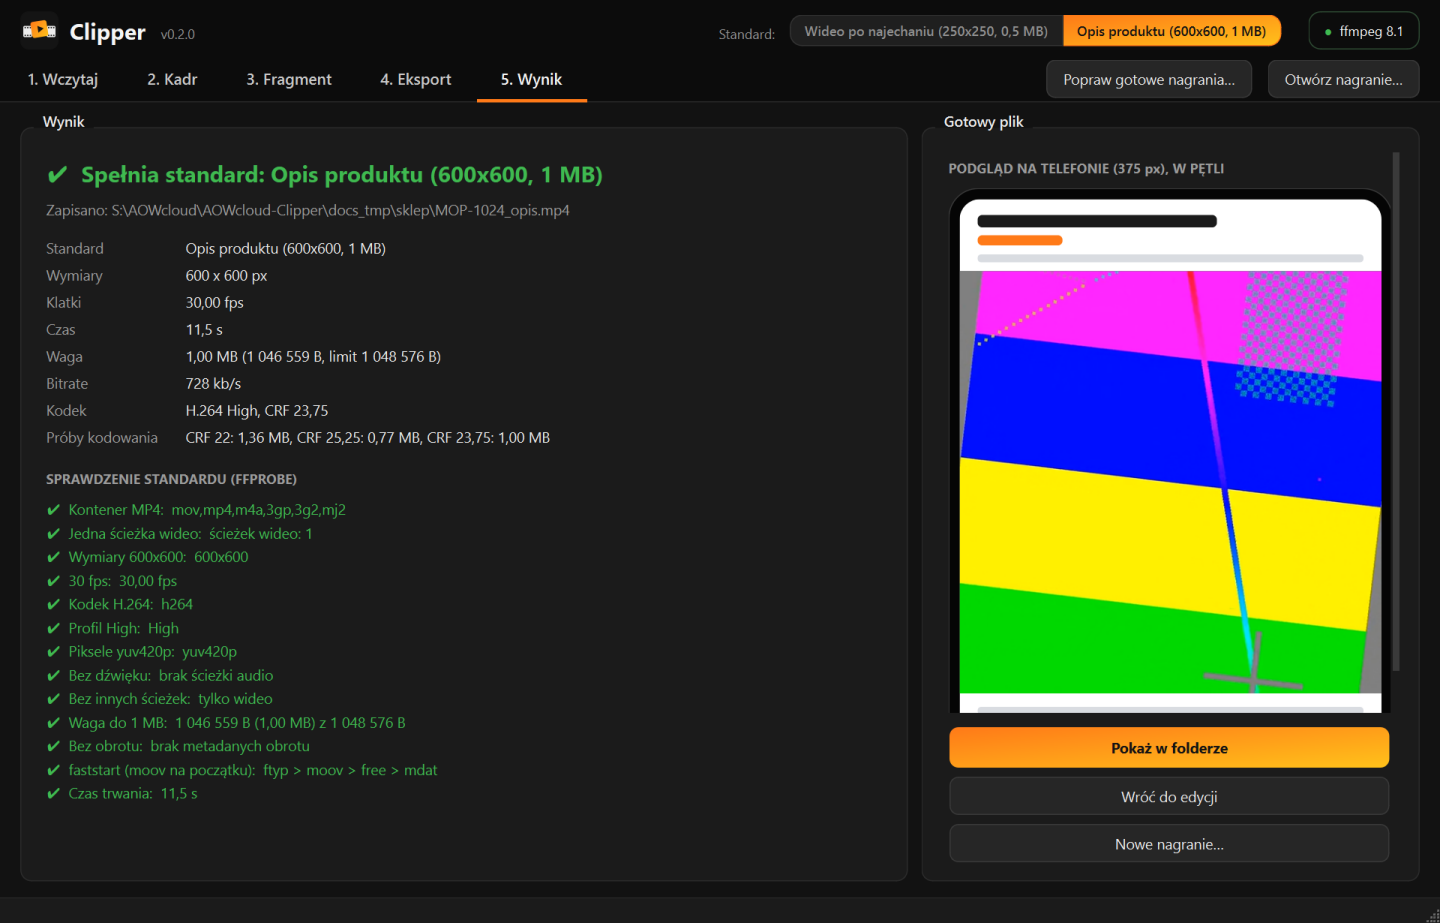
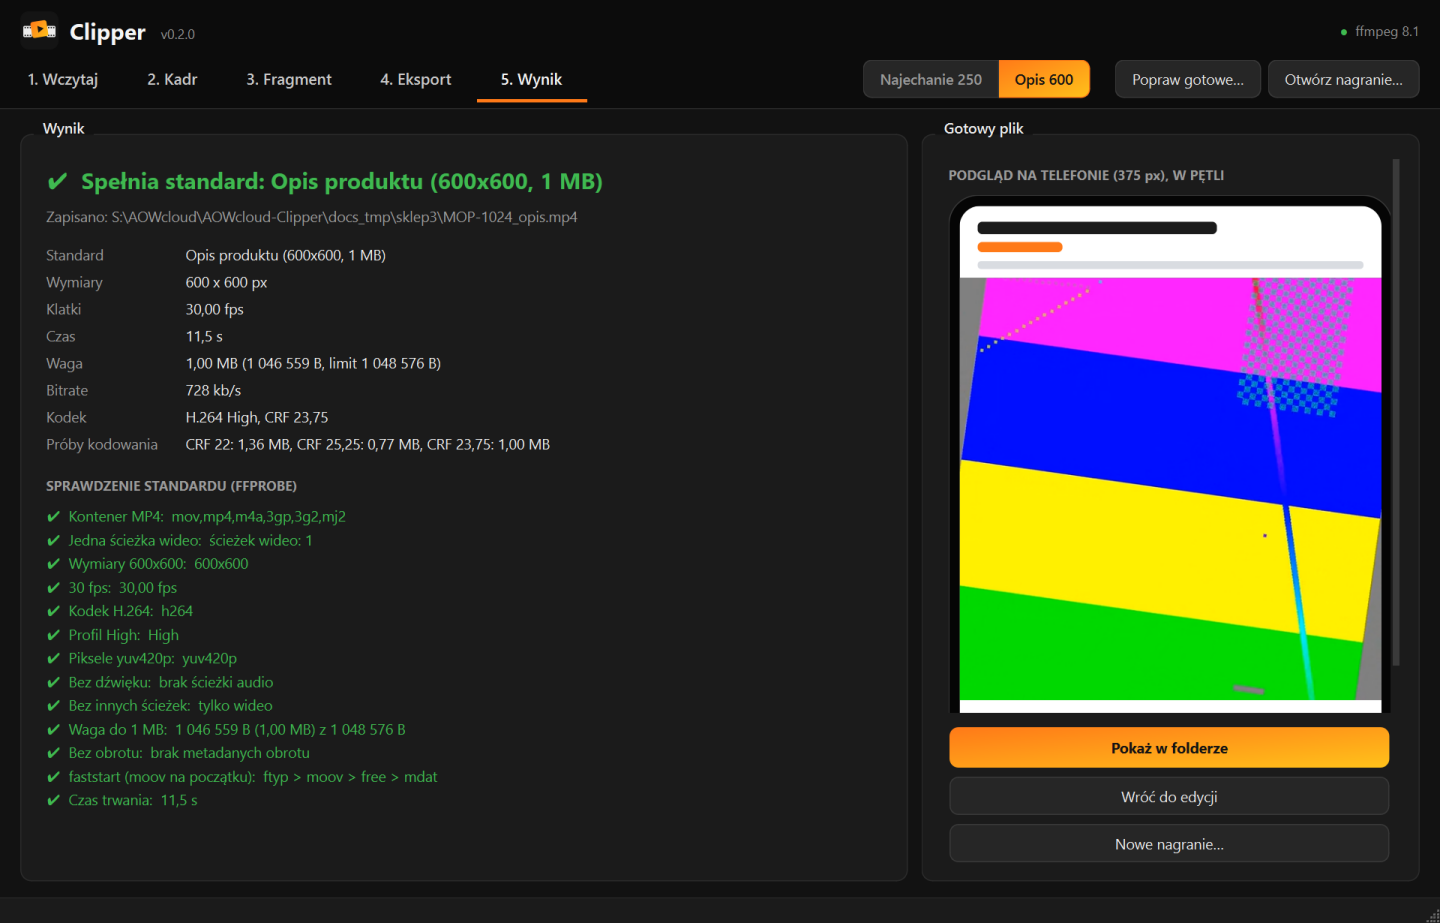
Tidy the top area: standard switch in the steps bar
The standard switch moves from the header to the steps bar, next to the
action buttons, with short labels ("Najechanie 250", "Opis 600") and the
same shape and height as the buttons; full parameters stay in the tooltip.
The header keeps only the logo, version and a quiet ffmpeg status dot.
README text and screenshots updated.

Changed region(s): [[0.5, 0.0, 1.0, 0.7887], [0.0312, 0.182, 0.4375, 0.8797], [0.0312, 0.1213, 0.0625, 0.1517]]

diff --git a/clipper/ui/main_window.py b/clipper/ui/main_window.py
@@ -152,16 +152,35 @@ class MainWindow(QMainWindow):
         steps_bar.setObjectName("stepsBar")
         steps_bar.setAttribute(Qt.WA_StyledBackground, True)
         sl = QHBoxLayout(steps_bar)
-        sl.setContentsMargins(4, 0, 18, 0)
+        sl.setContentsMargins(4, 0, 18, 6)
         self.steps = StepHeader()
         sl.addWidget(self.steps)
         sl.addStretch(1)
-        self.btn_batch_top = button("Popraw gotowe nagrania…", tip(
+        # przełącznik standardu: krótkie nazwy, pełne parametry w podpowiedzi
+        seg = QHBoxLayout()
+        seg.setSpacing(0)
+        self.std_group = QButtonGroup(self)
+        self.std_group.setExclusive(True)
+        self.std_buttons: dict[str, QPushButton] = {}
+        stds = list(S.STANDARDS.values())
+        for i, st in enumerate(stds):
+            b = QPushButton(st.short_label)
+            b.setCheckable(True)
+            b.setCursor(Qt.PointingHandCursor)
+            b.setFocusPolicy(Qt.NoFocus)
+            b.setObjectName("segL" if i == 0 else ("segR" if i == len(stds) - 1 else "segM"))
+            b.setToolTip(st.tooltip + "\nProgram zapamiętuje ostatni wybór.")
+            b.clicked.connect(lambda _=False, k=st.key: self.on_standard_clicked(k))
+            self.std_group.addButton(b)
+            self.std_buttons[st.key] = b
+            seg.addWidget(b)
+        sl.addLayout(seg)
+        sl.addSpacing(16)
+        self.btn_batch_top = button("Popraw gotowe…", tip(
             "Przerób kilka gotowych plików albo cały folder do wybranego standardu.",
             "Bez ręcznego kadrowania: kwadrat jest skalowany, prostokąt kadrowany do środka.",
             "Program usuwa dźwięk, ustawia 30 fps i faststart, pilnuje limitu wagi."), self.open_batch)
         sl.addWidget(self.btn_batch_top)
-        sl.addSpacing(8)
         self.btn_open_top = button("Otwórz nagranie…", "Wybierz nagranie z dysku (Ctrl+O). "
                                    "Możesz też przeciągnąć plik na okno.", self.open_dialog)
         sl.addWidget(self.btn_open_top)
@@ -203,30 +222,8 @@ class MainWindow(QMainWindow):
         lay.addWidget(name)
         lay.addWidget(ver)
         lay.addStretch(1)
-        std_lbl = QLabel("Standard:")
-        std_lbl.setObjectName("appVersion")
-        lay.addWidget(std_lbl)
-        seg = QHBoxLayout()
-        seg.setSpacing(0)
-        self.std_group = QButtonGroup(self)
-        self.std_group.setExclusive(True)
-        self.std_buttons: dict[str, QPushButton] = {}
-        stds = list(S.STANDARDS.values())
-        for i, st in enumerate(stds):
-            b = QPushButton(st.label)
-            b.setCheckable(True)
-            b.setCursor(Qt.PointingHandCursor)
-            b.setFocusPolicy(Qt.NoFocus)
-            b.setObjectName("segL" if i == 0 else ("segR" if i == len(stds) - 1 else "segM"))
-            b.setToolTip(st.tooltip + "\nProgram zapamiętuje ostatni wybór.")
-            b.clicked.connect(lambda _=False, k=st.key: self.on_standard_clicked(k))
-            self.std_group.addButton(b)
-            self.std_buttons[st.key] = b
-            seg.addWidget(b)
-        lay.addLayout(seg)
-        lay.addSpacing(14)
         chip = QLabel(f'<span style="color:{T.OK}">●</span>&nbsp; ffmpeg {core.ffmpeg_version(self.tools)}')
-        chip.setObjectName("chip")
+        chip.setObjectName("dot")
         chip.setToolTip(f"Kodowanie przez systemowy ffmpeg: {self.tools.ffmpeg}")
         lay.addWidget(chip)
         return bar
@@ -1091,7 +1088,7 @@ class MainWindow(QMainWindow):
                                   f"Krótszy bok co najmniej {std.min_source_side} px.")
         self.lbl_drop_spec.setText(f"Wynik w standardzie „{std.name}”: MP4 {std.dims} px, 30 fps, H.264 High, "
                                    f"bez dźwięku, start natychmiast (faststart), do {std.limit_label}.")
-        self.lbl_batch_std.setText(f"Standard: {std.label}. Zmienisz go przełącznikiem u góry okna.")
+        self.lbl_batch_std.setText(f"Standard: {std.label}. Zmienisz go przełącznikiem w pasku kroków.")
         if self._batch_dir_auto and self.batch_files:
             self.ed_batch_dir.setText(self._default_batch_dir())
 

diff --git a/clipper/ui/theme.py b/clipper/ui/theme.py
@@ -45,16 +45,17 @@ QWidget#header {{ background: {HEADER}; }}
 QWidget#header QLabel {{ color: {HEADER_TEXT}; background: transparent; }}
 QLabel#appName {{ font-size: 15pt; font-weight: 700; }}
 QWidget#header QLabel#appVersion {{ color: {HEADER_MUTED}; font-size: 9pt; padding-top: 6px; }}
+QWidget#header QLabel#dot {{ color: {HEADER_MUTED}; font-size: 9pt; }}
 QLabel#chip {{ background: {CHIP}; color: {HEADER_TEXT}; border: 1px solid #2e4a33; border-radius: 11px;
               padding: 3px 10px; font-size: 9pt; }}
 
 /* przełącznik standardu */
-QPushButton#segL, QPushButton#segM, QPushButton#segR {{ background: {CHIP}; color: {HEADER_MUTED};
-    border: 1px solid #333333; padding: 5px 12px; font-weight: 600; font-size: 9pt; border-radius: 0; }}
-QPushButton#segL {{ border-top-left-radius: 11px; border-bottom-left-radius: 11px; }}
-QPushButton#segR {{ border-top-right-radius: 11px; border-bottom-right-radius: 11px; border-left: none; }}
+QPushButton#segL, QPushButton#segM, QPushButton#segR {{ background: {RAISED}; color: {MUTED};
+    border: 1px solid {BORDER_STRONG}; padding: 7px 14px; font-weight: 600; border-radius: 0; }}
+QPushButton#segL {{ border-top-left-radius: 8px; border-bottom-left-radius: 8px; }}
+QPushButton#segR {{ border-top-right-radius: 8px; border-bottom-right-radius: 8px; border-left: none; }}
 QPushButton#segM {{ border-left: none; }}
-QPushButton#segL:hover, QPushButton#segM:hover, QPushButton#segR:hover {{ color: {HEADER_TEXT}; }}
+QPushButton#segL:hover, QPushButton#segM:hover, QPushButton#segR:hover {{ color: {TEXT}; }}
 QPushButton#segL:checked, QPushButton#segM:checked, QPushButton#segR:checked {{ color: {ACCENT_TEXT};
     border-color: {ACCENT};
     background: qlineargradient(x1:0, y1:0, x2:1, y2:1, stop:0 {ACCENT}, stop:1 {ACCENT2}); }}

diff --git a/clipper/standard.py b/clipper/standard.py
@@ -11,6 +11,7 @@ from dataclasses import dataclass
 class VideoStandard:
     key: str                # identyfikator zapisywany w ustawieniach
     name: str               # nazwa w interfejsie i w wyniku
+    short_label: str        # krótka nazwa na przełączniku
     size: int               # kwadrat size x size px
     max_bytes: int          # twardy limit wagi
     crf_start: float        # pierwsza próba: wysoka jakość
@@ -59,6 +60,7 @@ class VideoStandard:
 HOVER = VideoStandard(
     key="najechanie",
     name="Wideo po najechaniu",
+    short_label="Najechanie 250",
     size=250,
     max_bytes=524288,           # 0,5 MB
     crf_start=20.0,
@@ -74,6 +76,7 @@ HOVER = VideoStandard(
 DESCRIPTION = VideoStandard(
     key="opis",
     name="Opis produktu",
+    short_label="Opis 600",
     size=600,
     max_bytes=1048576,          # 1 MB
     # Kalibracja VMAF (model telefonu) na nagraniach produktów, spadek względem CRF 18:

diff --git a/README.md b/README.md
@@ -64,7 +64,7 @@ Ustawienia (standard, folder zapisu, rozmiar okna) zostają w profilu Windows ka
 
 ## Standardy
 
-Standard wybiera się przełącznikiem w nagłówku okna. Jest widoczny przez cały czas pracy,
+Standard wybiera się przełącznikiem „Najechanie 250 / Opis 600” w pasku kroków. Jest widoczny przez cały czas pracy,
 a program pamięta ostatni wybór. Podpowiedź przełącznika pokazuje pełne parametry.
 
 | | **Wideo po najechaniu** | **Opis produktu** |
@@ -139,7 +139,7 @@ fragmentu, więc przejście jest niewidoczne.
 
 ## Popraw gotowe nagrania
 
-Tryb do stopniowej wymiany starych nagrań (przycisk **„Popraw gotowe nagrania…”**). Dodajesz
+Tryb do stopniowej wymiany starych nagrań (przycisk **„Popraw gotowe…”** w pasku kroków). Dodajesz
 kilka plików albo cały folder (albo przeciągasz je na okno), a program przerabia je do wybranego
 standardu **bez ręcznego kadrowania**:
 
